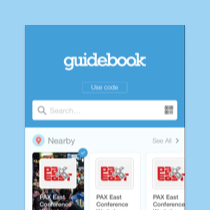
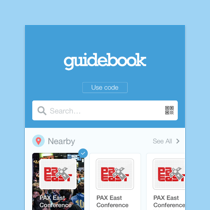
Cleanup

diff --git a/static/css/pages/examples.scss b/static/css/pages/examples.scss
@@ -2,7 +2,7 @@
 	background: $header;
 }
 .examples .container {
-	padding-bottom: 64px;
+	padding-bottom: 40px;
 }
 .examples-header {
 	background: $header;
@@ -91,6 +91,15 @@
 }
 
 // Examples Media Queries
+@media screen and (max-width:1080px) {
+	.examples .col-4 {
+		max-width:210px;
+		margin-right: 26px;
+	}
+	.examples .col-4:nth-child(4n) {
+		margin-right: 0;
+	}
+}
 @media screen and (max-width:980px) {
 	.examples .content-inner {
 		max-width: 810px;
@@ -156,9 +165,9 @@
 		margin-top: 0;
 		display: none;
 	}
-	.examples-container {
+	.examples .container {
 		padding-bottom: 0;
-		margin-bottom: -64px;
+		margin-bottom: -80px;
 	}
 }
 

diff --git a/pages/examples/preview/code.css b/pages/examples/preview/code.css
@@ -2,12 +2,13 @@
 pre {
     color: #fff;
     word-wrap: break-word;
-    font-size: 12px;
+    font-size: 13px;
     line-height: 1.55;
     font-weight: normal;
     padding:8px 16px 16px 24px;
     /* letter-spacing: -0.2px; */
     tab-size: 3;
+    -webkit-font-smoothing: subpixel-antialiased;
 }
 pre, code {
     font-family: 'Menlo', 'Monaco', Courier, monospace;
@@ -43,4 +44,11 @@ pre .comment a {
 
 ::selection {
     background:rgba(158, 204, 255, 0.12);
+}
+
+/* Retina Displays */
+@media screen and (-webkt-min-device-pixel-ratio: 2), (min-resolution: 192dpi) {
+    pre {
+        font-size: 12px;
+    }
 }
